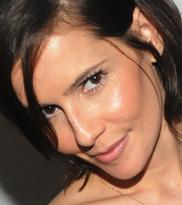
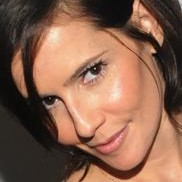
Changes

diff --git a/README.md b/README.md
@@ -41,9 +41,9 @@ For using pretrained SMAFace model for inference,
 python inference.py
 ```
 
-|                             img1                              |                              img2                              |                              img3                              |
-|:-------------------------------------------------------------:|:--------------------------------------------------------------:|:--------------------------------------------------------------:|
-| <img height="130" src="face_alignment/test_images/img1.jpeg" width="130"/> | <img height="130" src="face_alignment/test_images/img2.jpeg" width="130"/> | <img height="130" src="face_alignment/test_images/img3.jpeg" width="130"/> |
+|                                   img1                                    |                                   img2                                    |                                   img3                                    |
+|:-------------------------------------------------------------------------:|:-------------------------------------------------------------------------:|:-------------------------------------------------------------------------:|
+| <img height="130" src="face_alignment/test_images/img1.jpg" width="130"/> | <img height="130" src="face_alignment/test_images/img2.jpg" width="130"/> | <img height="130" src="face_alignment/test_images/img3.jpg" width="130"/> |
 
 The similarity score result should be 
 ```
